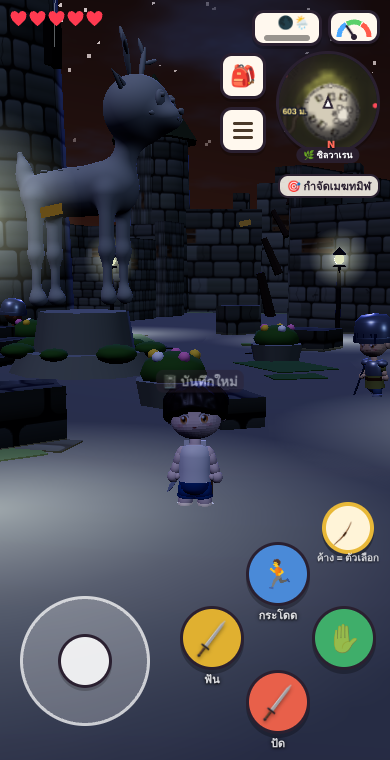
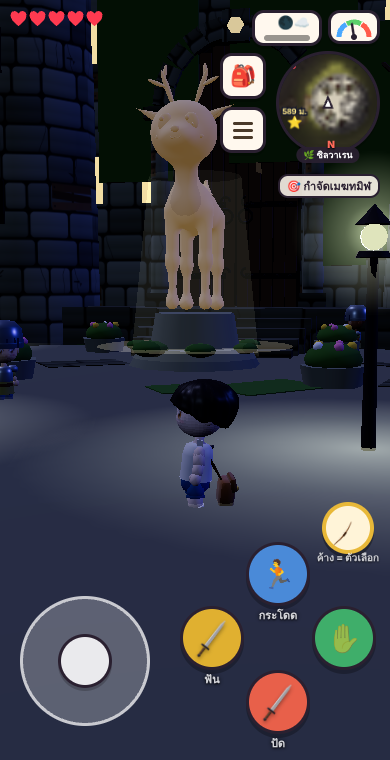
newgame: preview restored capital squares for all five kingdoms + statue uplight
Claude-Session: https://claude.ai/code/session_01GPWeNez232vT9ersFNk7wt

diff --git a/newgame/src/main.js b/newgame/src/main.js
@@ -4787,18 +4787,27 @@ function capTick(now) { if (now < capT) return; capT = now + 400; const q = me()
       CAPV[k] = V = { g, B, mons: [], next: 0, lit: null }; V.pick = addPick(W, B.door[0], B.door[1], 2, 3, { kind: 'capdoor', k }); V.pick.position.y += c.h + 1.4; return }
     if (V && d > 330) { capPlaza(k, V, false); removePick(W, V.pick); scene.remove(V.g); V.g.traverse(o => { if (o.isMesh) o.geometry.dispose() }); for (const e of V.B.sols) delSol(e); for (const m of V.mons) if (mons.includes(m) && !m.aggro) monGone(m); delete CAPV[k]; continue }
     if (!V) continue; const lit = !!(S.restored || {})[k]; if (V.lit !== lit) { V.lit = lit; try { capPlaza(k, V, lit) } catch (e) { } for (const m of V.B.glows) { m.color.set(lit ? CAP_GOLD : V.B.look.glow); m.emissive.set(lit ? CAP_GOLD : V.B.look.glow) } }
-    V.mons = V.mons.filter(m => mons.includes(m)); if (d > 150 && V.mons.length) { for (const m of V.mons) if (!m.aggro) monGone(m); V.mons = V.mons.filter(m => mons.includes(m)) }
+    capPlazaLit(V); V.mons = V.mons.filter(m => mons.includes(m)); if (d > 150 && V.mons.length) { for (const m of V.mons) if (!m.aggro) monGone(m); V.mons = V.mons.filter(m => mons.includes(m)) }
     if (!lit && d < 75 && !V.mons.length && now > V.next && !CUT) { const L = D.K_MONS[k] || ['slime']; for (const [x, z] of outRing(c.x, c.z, c.r + 6, V.B.guards.length, k.length)) V.mons.push(monSpawn(L[Math.floor(Math.random() * L.length)], x, z, { area: 'wild' })); V.next = now + D.LUM_RESPAWN * 1000 } } }
-/* v5.12 🦌 a restored capital's square: a statue of the kingdom's animal on a mossy plinth + lamps round the plaza (designer: one kingdom at a time · Sylvaren first) */
+/* v5.12 🦌 a restored capital's square: a statue of the kingdom's animal on a mossy plinth + planters + lamps round the plaza · uplit at night (designer: one kingdom at a time) */
+const STATUE_A = { camel(g) { const P = (p, z, r = [0, 0, 0]) => part(g, '#a8845a', '#d8b888', p, z, r, { A: .03 }); P([0, 1.0, 0], [.28, .26, .52]); P([0, 1.34, -.06], [.2, .2, .24]); for (const [x, z] of [[-.17, .32], [.17, .32], [-.17, -.34], [.17, -.34]]) P([x, .48, z], [.07, .48, .07]);
+    P([0, 1.32, .58], [.09, .3, .09], [.55, 0, 0]); P([0, 1.62, .78], [.1, .1, .2]); for (const sx of [-1, 1]) P([sx * .08, 1.75, .7], [.025, .05, .02]); P([0, .95, -.55], [.03, .18, .03], [-.3, 0, 0]) },
+  owl(g) { const P = (p, z, r = [0, 0, 0]) => part(g, '#7a5a3a', '#c09a6a', p, z, r, { A: .03 }); P([0, .45, 0], [.28, .36, .26]); P([0, .92, .02], [.27, .22, .24]); for (const sx of [-1, 1]) { P([sx * .15, 1.15, 0], [.05, .1, .04], [0, 0, -sx * .35]); P([sx * .1, .95, .22], [.085, .085, .03]); P([sx * .27, .45, -.02], [.07, .3, .2], [0, 0, sx * .12]); P([sx * .09, .06, .1], [.06, .04, .08]) }
+    P([0, .86, .26], [.035, .05, .04]); P([0, .2, -.25], [.12, .05, .1], [-.5, 0, 0]) } };
 function capPlaza(k, V, on) { if (V.plz) { scene.remove(V.plz); V.plz.traverse(o => { if (o.isMesh || o.isInstancedMesh) o.geometry.dispose() }); V.plz = null } const P = D.CAP_PLAZA[k]; if (!on || !P) return; const c = CAPS[k], g = new THREE.Group(), Lk = V.B.look;
-  const stone = new THREE.MeshStandardMaterial({ color: P.stone, roughness: .8, metalness: .03 }), moss = new THREE.MeshStandardMaterial({ color: Lk.moss || '#4f7a34', roughness: .95 }), pl = new THREE.MeshStandardMaterial({ color: Lk.stone, roughness: .9 });
-  const st = new THREE.Group(); st.position.y = 0; g.add(st); const ped = new THREE.Mesh(new THREE.CylinderGeometry(1.5, 1.8, .55, 10), pl); ped.position.y = .27; st.add(ped); const ped2 = new THREE.Mesh(new THREE.CylinderGeometry(1.05, 1.2, .9, 10), pl); ped2.position.y = 1.0; st.add(ped2);
+  const stone = new THREE.MeshStandardMaterial({ color: P.stone, roughness: .8, metalness: .03, emissive: '#ffcf80', emissiveIntensity: 0 }), moss = new THREE.MeshStandardMaterial({ color: P.bush || Lk.moss || '#4f7a34', roughness: .95 }), pl = new THREE.MeshStandardMaterial({ color: Lk.stone, roughness: .9 });
+  const st = new THREE.Group(); g.add(st); const ped = new THREE.Mesh(new THREE.CylinderGeometry(1.5, 1.8, .55, 10), pl); ped.position.y = .27; st.add(ped); const ped2 = new THREE.Mesh(new THREE.CylinderGeometry(1.05, 1.2, .9, 10), pl); ped2.position.y = 1.0; st.add(ped2); let top = 1.45;
+  if (P.pillar) { for (let i = 0; i < 3; i++) { const r = new THREE.Mesh(new THREE.DodecahedronGeometry(.85 - i * .12, 0), pl); r.scale.y = P.pillar / 2.4; r.position.set(Math.sin(i * 2.1) * .12, top + (.85 - i * .12) * P.pillar / 2.4, Math.cos(i * 2.1) * .12); r.rotation.y = i * 1.3; st.add(r); top += (1.6 - i * .24) * P.pillar / 2.4 * .82 } }   /* a crag of stacked rock for a bird to stand on */
   for (let i = 0; i < 7; i++) { const a = i / 7 * 6.283 + .4, m = new THREE.Mesh(new THREE.SphereGeometry(.32 + (i % 3) * .08, 8, 6), moss); m.scale.y = .45; m.position.set(Math.cos(a) * 1.55, .58, Math.sin(a) * 1.55); st.add(m) }   /* moss on the plinth's lip */
-  const an = new THREE.Group(); ANIMALS[P.animal](an); an.traverse(o => { if (o.isMesh) { o.material = stone; o.castShadow = !eco } }); an.scale.setScalar(P.scale); an.position.y = 1.45; an.rotation.y = P.face || 0; st.add(an);
+  const an = new THREE.Group(); (ANIMALS[P.animal] || STATUE_A[P.animal])(an); an.traverse(o => { if (o.isMesh) { o.material = stone; o.castShadow = !eco } }); if (P.wings) an.traverse(o => { const r = o.userData.role; if (r === 'armL' || r === 'armR') { const sx = r === 'armL' ? -1 : 1; o.rotation.z = sx * P.wings; o.position.x += sx * .12; o.position.y += .14; o.scale.x *= 1.6 } });   /* 🦅 wings spread wide */
+  an.scale.setScalar(P.scale); an.position.y = top - .05; an.rotation.y = P.face || 0; st.add(an);
   for (let i = 0; i < 4; i++) { const a = i / 4 * 6.283 + .785, x = Math.cos(a) * 5.2, z = Math.sin(a) * 5.2, pt = new THREE.Mesh(new THREE.CylinderGeometry(.7, .6, .5, 8), pl); pt.position.set(x, .25, z); g.add(pt); const b = new THREE.Mesh(new THREE.SphereGeometry(.62, 8, 6), moss); b.scale.y = .6; b.position.set(x, .62, z); g.add(b);
-    for (let j = 0; j < 5; j++) { const f = new THREE.Mesh(new THREE.SphereGeometry(.11, 6, 5), new THREE.MeshStandardMaterial({ color: P.flowers[j % P.flowers.length], roughness: .7 })); const fa = j / 5 * 6.283 + i; f.position.set(x + Math.cos(fa) * .38, .9, z + Math.sin(fa) * .38); g.add(f) } }   /* four flower planters */
-  g.position.set(c.x, c.h, c.z); g.rotation.y = c.ry; scene.add(g);
-  const L = [], co = Math.cos(c.ry), si = Math.sin(c.ry); for (let i = 0; i < P.lamps; i++) { const a = i / P.lamps * 6.283 + P.a0, lx = Math.cos(a) * P.r, lz = Math.sin(a) * P.r; if (lz < -7) continue; L.push({ x: c.x + lx * co + lz * si, z: c.z - lx * si + lz * co, y: c.h, py: c.h, k }) } const lg = lampGroup(L); g.add(lg); g.updateMatrixWorld(); lg.applyMatrix4(new THREE.Matrix4().copy(g.matrixWorld).invert()); V.plz = g }
+    for (let j = 0; j < 5; j++) { const f = new THREE.Mesh(new THREE.SphereGeometry(.11, 6, 5), new THREE.MeshStandardMaterial({ color: P.flowers[j % P.flowers.length], roughness: .7 })); const fa = j / 5 * 6.283 + i; f.position.set(x + Math.cos(fa) * .38, .9, z + Math.sin(fa) * .38); g.add(f) } }   /* four planters */
+  const up = new THREE.Mesh(new THREE.CircleGeometry(2.6, 28), new THREE.MeshBasicMaterial({ color: '#ffd890', transparent: true, opacity: 0, depthWrite: false, blending: THREE.AdditiveBlending })); up.rotation.x = -Math.PI / 2; up.position.y = .58; g.add(up);
+  const beam = new THREE.Mesh(new THREE.CylinderGeometry(1.2, 1.7, top + P.scale * 1.4, 18, 1, true), new THREE.MeshBasicMaterial({ color: '#ffe0a0', transparent: true, opacity: 0, depthWrite: false, side: THREE.DoubleSide, blending: THREE.AdditiveBlending })); beam.position.y = (top + P.scale * 1.4) / 2 + .3; g.add(beam);   /* 🔦 the statue is lit from below at night */
+  g.position.set(c.x, c.h, c.z); g.rotation.y = c.ry; scene.add(g); g.userData.up = { stone, up, beam };
+  const L = [], co = Math.cos(c.ry), si = Math.sin(c.ry); for (let i = 0; i < P.lamps; i++) { const a = i / P.lamps * 6.283 + P.a0, lx = Math.cos(a) * P.r, lz = Math.sin(a) * P.r; if (lz < -7) continue; L.push({ x: c.x + lx * co + lz * si, z: c.z - lx * si + lz * co, y: c.h, py: c.h, k }) } const lg = lampGroup(L); g.add(lg); g.updateMatrixWorld(); lg.applyMatrix4(new THREE.Matrix4().copy(g.matrixWorld).invert()); V.plz = g; capPlazaLit(V) }
+function capPlazaLit(V) { const u = V.plz && V.plz.userData.up; if (!u) return; const n = nightK(); u.stone.emissiveIntensity = n * .14; u.up.material.opacity = n * .26; u.beam.material.opacity = n * .05 }
 /* v3.30.2 the glowing doorway of a capital's keep: sealed by the dark until the kingdom is restored */
 function capDoor(k) { const K = KINGDOMS[k]; if (((S.restored || {})[k] || raided(k)) && CAPV[k] && CAPV[k].B) { const d = CAPV[k].B.door; return hinEnter({ castle: 'c2', ck: k, fl: 0, x: d[0], z: d[1] }) }   /* v4.77 a restored kingdom's keep: walk in */ sfx('knock'); toast((S.restored || {})[k] ? `🌈 ประตูของ${K.name} สงบลงแล้ว<br><small>ข้างในยังพังทลาย… วันหนึ่งผู้คนจะกลับมาซ่อมแซม</small>` : `🔒 ประตูถูกผนึกด้วยพลังมืด<br><small>ฟื้นฟู${K.name}ให้สำเร็จเพื่อคลายผนึก</small>`, 2600) }
 /* ================= v4.90 🏰 the captured castles (designer · docs/plan-kingdoms-inn.md) — walk in without repairs · monsters fill floors 1–2 · the captive waits in a cage on floor 2 · the mini-boss on floor 3 breaks out to the courtyard · beat it = the kingdom is restored ================= */

diff --git a/newgame/tools/test/capplaza.js b/newgame/tools/test/capplaza.js
@@ -11,9 +11,13 @@ const ROOT = path.resolve(__dirname, '../../..'), PORT = 8891, OUT = process.arg
     const E = (f, a) => pg.evaluate(f, a); await E(() => document.querySelectorAll('.ov').forEach(o => o.remove()));
     await E(() => { const N = window.__ng, C = N.CAPS.sylvaren; N.S.time = 600; N.placeMe(C.x + 4, C.z + 17) }); await pg.waitForFunction(() => { const V = window.__ng.CAPV.sylvaren; return V && V.plz }, null, { timeout: 60000, polling: 400 });
     const r = await E(() => { const N = window.__ng, V = N.CAPV.sylvaren; let n = 0; V.plz.traverse(o => { if (o.isMesh || o.isInstancedMesh) n++ }); return { meshes: n } }); log('plaza', JSON.stringify(r)); if (r.meshes < 20) errs.push('statue + planters + lamps built');
-    const shot = async (name, t) => { await E(t => { const N = window.__ng, C = N.CAPS.sylvaren; document.querySelectorAll('.ov').forEach(o => o.remove()); N.S.time = t; N.placeMe(C.x + 3.5, C.z + 10.5) }, t); await wait(3500); await E(() => { const t = document.getElementById('toast'); if (t) t.style.display = 'none' }); await pg.screenshot({ path: OUT + '/' + name + '.png' }) };
-    await shot('day', 600); await shot('night', 1320);
-    await E(() => { const N = window.__ng, V = N.CAPV.sylvaren; N.capPlaza('sylvaren', V, false) }); const gone = await E(() => !window.__ng.CAPV.sylvaren.plz); if (!gone) errs.push('the square clears when not restored');
+    const shot = async (k, name, t) => { await E(([k, t]) => { const N = window.__ng, C = N.CAPS[k]; document.querySelectorAll('.ov').forEach(o => o.remove()); N.S.time = t; const c = Math.cos(C.ry), s = Math.sin(C.ry), lx = 2.5, lz = 13, x = C.x + lx * c + lz * s, z = C.z - lx * s + lz * c; N.placeMe(x, z); N.CAM.yaw = Math.atan2(C.x - x, C.z - z); N.CAM.pitch = .12; N.CAM.manualT = performance.now() + 1e7 }, [k, t]); await wait(3500); await E(() => { const t = document.getElementById('toast'); if (t) t.style.display = 'none' }); await pg.screenshot({ path: OUT + '/' + name + '.png' }) };
+    await shot('sylvaren', 'sylvaren-day', 600); await shot('sylvaren', 'sylvaren-night', 1320);
+    const up = await E(() => { const u = window.__ng.CAPV.sylvaren.plz.userData.up; return +u.up.material.opacity.toFixed(2) }); log('uplight at night', up); if (!(up > .15)) errs.push('the statue is uplit at night');
+    for (const k of ['frosthelm', 'valkara', 'asrah', 'deadgar']) { await E(k => { const N = window.__ng, C = N.CAPS[k]; N.S.restored[k] = 1; N.S.time = 600; document.querySelectorAll('.ov').forEach(o => o.remove()); N.placeMe(C.x + 3.5, C.z + 10.5) }, k);
+      const ok = await pg.waitForFunction(k => { const V = window.__ng.CAPV[k]; return V && V.plz }, k, { timeout: 60000, polling: 400 }).then(() => 1, () => 0); if (!ok) { errs.push(k + ' square built'); continue }
+      await shot(k, k + '-day', 600); await shot(k, k + '-night', 1320) }
+    await E(() => { const N = window.__ng, V = N.CAPV.deadgar; N.capPlaza('deadgar', V, false) }); const gone = await E(() => !window.__ng.CAPV.deadgar.plz); if (!gone) errs.push('the square clears when not restored');
     const other = await E(() => { const N = window.__ng; return N.D.CAP_PLAZA.frosthelm ? 'has' : 'none' }); log('frosthelm', other);
   } catch (e) { errs.push('X ' + e.message) } finally { await b.close(); srv.kill() }
   if (errs.length) { console.log('ERRORS'); errs.forEach(e => console.log(e)); process.exit(1) } console.log('PASS') })();

diff --git a/newgame/src/data.js b/newgame/src/data.js
@@ -371,7 +371,12 @@ export const ANIMAL_HINT = {   // v5.11 🐾 where each catch-quest animal lives
   boar: { npc: 'mali', k: 'sylvaren', when: 'หมูป่าชอบพุ่งชน หลบแล้วค่อยโยน 🕸 ตาข่าย', say: 'หมูป่าชอบขุดดินในป่าทาง{dir}ของเมือง ราว {m} เมตร' },
   hawk: { npc: 'miners', k: 'valkara', when: 'เหยี่ยวอยู่บนที่สูง ปีนขึ้นไปเงียบๆ ตอนกลางวัน', say: 'ข้าเห็นเหยี่ยววนอยู่บนหน้าผาสูงทาง{dir}ของเหมือง ราว {m} เมตร' } };
 export const HARB_STATUE = 'whale';   // v5.09 🗿 the harbour square statue: 'hero' (old) · 'sailor' ⚓ · 'whale' 🐋 (preview)
-export const CAP_PLAZA = { sylvaren: { animal: 'deer', scale: 2.3, face: 0, stone: '#b4b8a8', flowers: ['#ffd84a', '#ff9ac8', '#ffffff'], lamps: 8, r: 11, a0: .39 } };   // v5.12 🦌 restored capitals' squares (statue · lamps) · one kingdom at a time
+export const CAP_PLAZA = {   // v5.12 🦌 restored capitals' squares: the statue's animal · its stone · planter flowers / bush · lamps (n · radius · start angle) · pillar = a rock crag under a bird
+  sylvaren:  { animal: 'deer', scale: 2.3, stone: '#b4b8a8', flowers: ['#ffd84a', '#ff9ac8', '#ffffff'], lamps: 8, r: 11, a0: .39 },
+  frosthelm: { animal: 'bear', scale: 2.0, stone: '#dfe8f0', flowers: ['#9fd4ff', '#ffffff', '#c8b8ff'], bush: '#5a7a6a', lamps: 8, r: 11, a0: .39 },
+  valkara:   { animal: 'hawk', scale: 3.4, wings: -.55, stone: '#8a7a72', flowers: ['#ff7a1a', '#ffd23f', '#ff4a2a'], bush: '#5a5a34', lamps: 8, r: 11, a0: .39, pillar: 2.6 },
+  asrah:     { animal: 'camel', scale: 2.0, face: .7, stone: '#e0c89a', flowers: ['#ff4a6a', '#ffd84a', '#ff9a3a'], bush: '#7a9a4a', lamps: 8, r: 11, a0: .39 },
+  deadgar:   { animal: 'owl', scale: 2.4, stone: '#a8a0b4', flowers: ['#b06aff', '#ffffff', '#7ad8ff'], bush: '#4a5a4a', lamps: 8, r: 11, a0: .39, pillar: 1.4 } };
 export const TOWN_LIGHT = { n: 6, r: 7.6, a0: .26 }, FOUNTAIN = { bowl: .95, top: 1.55 };   // v5.09 💡 lamps round the harbour square · 🌊 the fountain's jets (basin radius · how high they start)
 export const FIRE_REST = { en: 2, auto: 2500, crackle: 1400 };   // v4.99 🔥 (designer) sit by a lit fire: ⚡ ×en · standing still auto ms = sit down by itself · a crackle every ~ms
 export const PARRY2 = { tell: 380, win: 300, stun: 1100, counter: 2, cwin: 1600, stop: 220 };   // v5.00 🛡 (designer: game feel) B pressed ≤win ms before a hit = perfect parry: no damage · the foe staggers stun ms · your next hit within cwin ms ×counter
